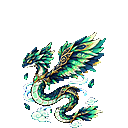
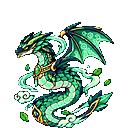
[THU 6j] Phong Nguyên Vũ Xà: thay bằng ảnh Đằng Xà cuộn tròn (bậc 3 gọn, to hơn), cắt kiểu D

diff --git a/thu-moi/TIEN_DO_DUA_VAO_GAME.md b/thu-moi/TIEN_DO_DUA_VAO_GAME.md
@@ -67,7 +67,7 @@ Trạng thái áp dụng D: ĐÃ cắt lại toàn bộ vùng 1, 2, 3 (30 con, 1
 - 6g Phong Bi (chờ duyệt): kiểu D, tỉ lệ thu 0.1452; bậc 1 cao 59px, bậc 2 cao 82px, bậc 3 cao 121px.
 - 6h Phong Lô (chờ duyệt): kiểu D, tỉ lệ thu 0.1424; bậc 1 cao 51px, bậc 2 cao 89px, bậc 3 cao 121px.
 - 6i Phong Tích (chờ duyệt): kiểu D, tỉ lệ thu 0.1472; bậc 1 cao 48px, bậc 2 cao 80px, bậc 3 cao 117px.
-- 6j Phong Nguyên Vũ Xà, BOSS (chờ duyệt): THAY LẦN 2 bằng ảnh người dùng gửi ngày 18/11/2026 (rắn cánh lông vũ xanh, nền magenta gốc, thay bản v5 trước). Tách nền bằng chroma-key magenta nối biên + `hau_xu_ly_anh_thu.py --bg magenta`, rồi `cat_3_bac.py ... 128 --kieu-d --gan-gan-nhat`. Tỉ lệ thu 0.1437; bậc 1 cao 53px, bậc 2 cao 96px, bậc 3 cao 121px; 0 pixel ám magenta. Đã so mắt trên nền sáng/tối: 3 bậc không dính nhau. Chưa kiểm trong game thật. Ảnh tách nền chưa nằm trong `thu-moi/phong-nguyen/` (thư mục chỉ đọc).
+- 6j Phong Nguyên Vũ Xà, BOSS (chờ duyệt): THAY LẦN 3 bằng ảnh Đằng Xà do ChatGPT làm (rắn cuộn tròn trên mây, cánh dơi màng, bậc 3 sửa riêng cho cuộn gọn). Tách nền chroma-key magenta nối biên + `hau_xu_ly_anh_thu.py --bg magenta`, rồi `cat_3_bac.py ... 128 --kieu-d --gan-gan-nhat`. Tỉ lệ thu 0.1874 (bản trước 0.1437, to hơn ~30%); bậc 1 cao 76px, bậc 2 cao 106px, bậc 3 cao 122px (rộng 119px); 0 pixel ám magenta. Đã so mắt nền sáng/tối: 3 bậc không dính nhau. Điểm chưa ổn: vài viên ngọc hồng nhỏ trên xích bậc 3 bị xóa vì gần màu nền; bậc 1 hơi lớn so với bậc 3 (62%, nhỏ hơn nửa như prompt đòi). Chưa kiểm trong game thật.
 - **Vùng 6 Phong Nguyên (z3) đã đủ 10 con (6a-6j), làm TRƯỚC vùng 5** vì người dùng gửi ảnh v4 trước. Ảnh gửi vào chat, alpha khớp từng pixel với `thu-moi/phong-nguyen/` trên nhánh. Tất cả dùng `--kieu-d --gan-gan-nhat` (không dùng cờ gán gần nhất thì lá / mây của bậc 3 dính vào bậc 2; đã so mắt trên 6a, 6d, 6g, 6h, 6j). PNG đã đẩy thẳng vào `thu-game/phong-nguyen/`.
 
 ## PNG (từ 1e trở đi đã đẩy thẳng bằng git; 1a-1d đã upload tay)
